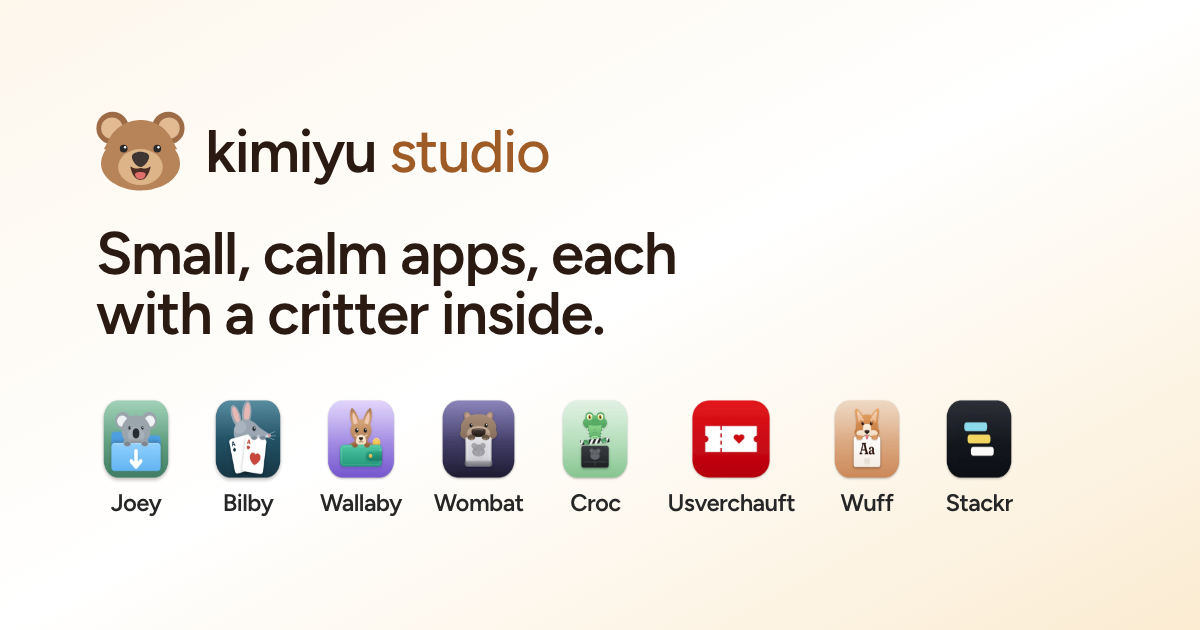
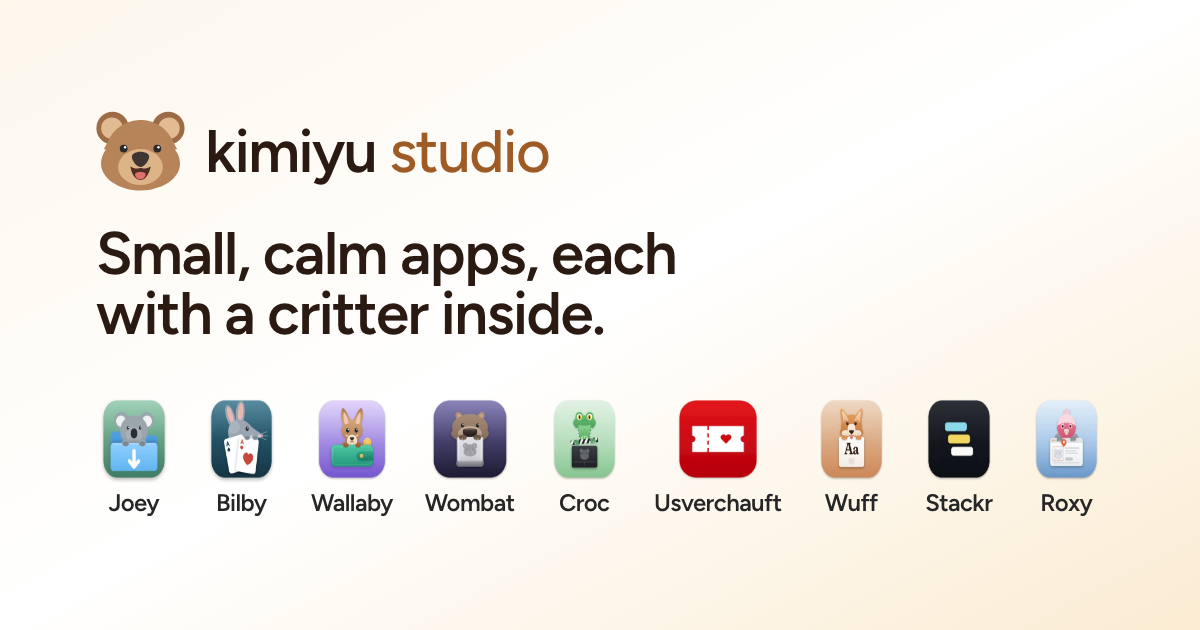
Add Roxy, the client feedback widget, to the apps
Card with the sky blue from roxy.web (named roost here, where the galah
perches), legal, contact and meta mentions, and 'Nine apps, nine small
jobs' in the heading. Share image re-rendered with the ninth icon.

diff --git a/public/build/assets/app-CX20v9g3.css b/public/build/assets/app-CX20v9g3.css
@@ -1,0 +1,2 @@
+/*! tailwindcss v4.3.3 | MIT License | https://tailwindcss.com */
+@layer properties{@supports (((-webkit-hyphens:none)) and (not (margin-trim:inline))) or ((-moz-orient:inline) and (not (color:rgb(from red r g b)))){*,:before,:after,::backdrop{--tw-space-y-reverse:0;--tw-divide-y-reverse:0;--tw-border-style:solid;--tw-gradient-position:initial;--tw-gradient-from:#0000;--tw-gradient-via:#0000;--tw-gradient-to:#0000;--tw-gradient-stops:initial;--tw-gradient-via-stops:initial;--tw-gradient-from-position:0%;--tw-gradient-via-position:50%;--tw-gradient-to-position:100%;--tw-font-weight:initial;--tw-tracking:initial;--tw-shadow:0 0 #0000;--tw-shadow-color:initial;--tw-shadow-alpha:100%;--tw-inset-shadow:0 0 #0000;--tw-inset-shadow-color:initial;--tw-inset-shadow-alpha:100%;--tw-ring-color:initial;--tw-ring-shadow:0 0 #0000;--tw-inset-ring-color:initial;--tw-inset-ring-shadow:0 0 #0000;--tw-ring-inset:initial;--tw-ring-offset-width:0px;--tw-ring-offset-color:#fff;--tw-ring-offset-shadow:0 0 #0000;--tw-translate-x:0;--tw-translate-y:0;--tw-translate-z:0;--tw-outline-style:solid}}}@layer theme{:root,:host{--font-sans:var(--font-inter), ui-sans-serif, system-ui, sans-serif;--font-mono:ui-monospace, SFMono-Regular, Menlo, Monaco, Consolas, "Liberation Mono", "Courier New", monospace;--color-neutral-500:oklch(55.6% 0 none);--color-neutral-600:oklch(43.9% 0 none);--color-neutral-700:oklch(37.1% 0 none);--color-neutral-800:oklch(26.9% 0 none);--color-neutral-950:oklch(14.5% 0 none);--color-white:#fff;--spacing:.25rem;--container-6xl:72rem;--text-sm:.875rem;--text-base:1rem;--text-lg:1.125rem;--text-xl:1.25rem;--text-xl--line-height:calc(1.75 / 1.25);--text-2xl:1.5rem;--text-2xl--line-height:calc(2 / 1.5);--text-4xl:2.25rem;--text-4xl--line-height:calc(2.5 / 2.25);--text-5xl:3rem;--text-5xl--line-height:1;--text-6xl:3.75rem;--text-6xl--line-height:1;--text-7xl:4.5rem;--text-7xl--line-height:1;--font-weight-normal:400;--font-weight-medium:500;--font-weight-semibold:600;--tracking-tight:-.025em;--radius-3xl:1.5rem;--default-transition-duration:.15s;--default-transition-timing-function:cubic-bezier(.4, 0, .2, 1);--default-font-family:var(--font-sans);--default-font-feature-settings:var(--font-sans--font-feature-settings);--default-mono-font-family:var(--font-mono);--font-sans--font-feature-settings:"cv02", "cv03", "cv04", "cv11";--font-display:var(--font-figtree), ui-sans-serif, system-ui, sans-serif;--color-honey-50:#fdf7ec;--color-honey-100:#fbecd2;--color-honey-600:#9f5b26;--color-honey-700:#824a22;--color-honey-800:#6b3d20;--color-honey-950:#2b1a12;--color-gum-50:#f1f8f4;--color-gum-700:#2f6450;--color-gum-950:#10261e;--color-chip-50:#eef7f9;--color-chip-700:#24576a;--color-chip-950:#112832;--color-lilac-50:#f6f3fe;--color-lilac-700:#6243b3;--color-lilac-950:#2a1d4d;--color-burrow-50:#f4f4fa;--color-burrow-700:#484276;--color-burrow-950:#1d1b31;--color-billabong-50:#eff8f0;--color-billabong-700:#255c31;--color-billabong-950:#0c2113;--color-terrace-50:#fdf1f1;--color-terrace-700:#b5000d;--color-terrace-950:#3a0a0b;--color-ochre-50:#fbf6f1;--color-ochre-700:#864428;--color-ochre-950:#311710;--color-cobalt-50:#f2f7ff;--color-cobalt-700:#194cb1;--color-cobalt-950:#09152c;--color-roost-50:#f2f7fc;--color-roost-700:#40618c;--color-roost-950:#1e2a3b}}@layer base{*,:after,:before,::backdrop{box-sizing:border-box;border:0 solid;margin:0;padding:0}::file-selector-button{box-sizing:border-box;border:0 solid;margin:0;padding:0}html,:host{-webkit-text-size-adjust:100%;tab-size:4;line-height:1.5;font-family:var(--default-font-family,-apple-system, BlinkMacSystemFont, "Segoe UI", Roboto, "Helvetica Neue", "Noto Sans", Arial, sans-serif, "Apple Color Emoji", "Segoe UI Emoji", "Segoe UI Symbol", "Noto Color Emoji");font-feature-settings:var(--default-font-feature-settings,normal);font-variation-settings:var(--default-font-variation-settings,normal);-webkit-tap-highlight-color:transparent}hr{height:0;color:inherit;border-top-width:1px}abbr:where([title]){-webkit-text-decoration:underline dotted;text-decoration:underline dotted}h1,h2,h3,h4,h5,h6{font-size:inherit;font-weight:inherit}a{color:inherit;-webkit-text-decoration:inherit;-webkit-text-decoration:inherit;-webkit-text-decoration:inherit;-webkit-text-decoration:inherit;text-decoration:inherit}b,strong{font-weight:bolder}code,kbd,samp,pre{font-family:var(--default-mono-font-family,ui-monospace, SFMono-Regular, Menlo, Monaco, Consolas, "Liberation Mono", "Courier New", monospace);font-feature-settings:var(--default-mono-font-feature-settings,normal);font-variation-settings:var(--default-mono-font-variation-settings,normal);font-size:1em}small{font-size:80%}sub,sup{vertical-align:baseline;font-size:75%;line-height:0;position:relative}sub{bottom:-.25em}sup{top:-.5em}table{text-indent:0;border-color:inherit;border-collapse:collapse}:-moz-focusring:where(:not(iframe)){outline:auto}progress{vertical-align:baseline}summary{display:list-item}ol,ul,menu{list-style:none}img,svg,video,canvas,audio,iframe,embed,object{vertical-align:middle;display:block}img,video{max-width:100%;height:auto}button,input,select,optgroup,textarea{font:inherit;font-feature-settings:inherit;font-variation-settings:inherit;letter-spacing:inherit;color:inherit;opacity:1;background-color:#0000;border-radius:0}::file-selector-button{font:inherit;font-feature-settings:inherit;font-variation-settings:inherit;letter-spacing:inherit;color:inherit;opacity:1;background-color:#0000;border-radius:0}:where(select:is([multiple],[size])) optgroup{font-weight:bolder}:where(select:is([multiple],[size])) optgroup option{padding-inline-start:20px}::file-selector-button{margin-inline-end:4px}::placeholder{opacity:1}@supports (not ((-webkit-appearance:-apple-pay-button))) or (contain-intrinsic-size:1px){::placeholder{color:currentColor}@supports (color:color-mix(in lab, red, red)){::placeholder{color:color-mix(in oklab, currentcolor 50%, transparent)}}}textarea{resize:vertical}::-webkit-search-decoration{-webkit-appearance:none}::-webkit-date-and-time-value{min-height:1lh;text-align:inherit}::-webkit-datetime-edit{display:inline-flex}::-webkit-datetime-edit-fields-wrapper{padding:0}::-webkit-datetime-edit{padding-block:0}::-webkit-datetime-edit-year-field{padding-block:0}::-webkit-datetime-edit-month-field{padding-block:0}::-webkit-datetime-edit-day-field{padding-block:0}::-webkit-datetime-edit-hour-field{padding-block:0}::-webkit-datetime-edit-minute-field{padding-block:0}::-webkit-datetime-edit-second-field{padding-block:0}::-webkit-datetime-edit-millisecond-field{padding-block:0}::-webkit-datetime-edit-meridiem-field{padding-block:0}::-webkit-calendar-picker-indicator{line-height:1}:-moz-ui-invalid{box-shadow:none}button,input:where([type=button],[type=reset],[type=submit]){appearance:button}::file-selector-button{appearance:button}::-webkit-inner-spin-button{height:auto}::-webkit-outer-spin-button{height:auto}[hidden]:where(:not([hidden=until-found])){display:none!important}}@layer components;@layer utilities{.absolute{position:absolute}.relative{position:relative}.inset-x-0{inset-inline:0}.top-0{top:0}.isolate{isolation:isolate}.-z-10{z-index:calc(10 * -1)}.-m-2{margin:calc(var(--spacing) * -2)}.m-0{margin:0}.mx-auto{margin-inline:auto}.mt-1{margin-top:var(--spacing)}.mt-2{margin-top:calc(var(--spacing) * 2)}.mt-4{margin-top:calc(var(--spacing) * 4)}.mt-6{margin-top:calc(var(--spacing) * 6)}.mt-8{margin-top:calc(var(--spacing) * 8)}.mt-10{margin-top:calc(var(--spacing) * 10)}.mt-14{margin-top:calc(var(--spacing) * 14)}.mt-16{margin-top:calc(var(--spacing) * 16)}.mt-auto{margin-top:auto}.flex{display:flex}.grid{display:grid}.inline-flex{display:inline-flex}.size-5{width:calc(var(--spacing) * 5);height:calc(var(--spacing) * 5)}.size-6{width:calc(var(--spacing) * 6);height:calc(var(--spacing) * 6)}.size-24{width:calc(var(--spacing) * 24);height:calc(var(--spacing) * 24)}.h-6{height:calc(var(--spacing) * 6)}.h-7{height:calc(var(--spacing) * 7)}.h-20{height:calc(var(--spacing) * 20)}.h-\[44rem\]{height:44rem}.h-\[630px\]{height:630px}.w-\[1200px\]{width:1200px}.w-auto{width:auto}.w-full{width:100%}.max-w-6xl{max-width:var(--container-6xl)}.max-w-\[20ch\]{max-width:20ch}.max-w-\[22ch\]{max-width:22ch}.max-w-\[30ch\]{max-width:30ch}.max-w-\[48ch\]{max-width:48ch}.max-w-\[56ch\]{max-width:56ch}.max-w-\[65ch\]{max-width:65ch}.shrink-0{flex-shrink:0}.scroll-mt-8{scroll-margin-top:calc(var(--spacing) * 8)}.grid-cols-1{grid-template-columns:repeat(1,minmax(0,1fr))}.flex-col{flex-direction:column}.flex-wrap{flex-wrap:wrap}.items-center{align-items:center}.justify-between{justify-content:space-between}.justify-center{justify-content:center}.justify-end{justify-content:flex-end}.gap-4{gap:calc(var(--spacing) * 4)}.gap-6{gap:calc(var(--spacing) * 6)}.gap-8{gap:calc(var(--spacing) * 8)}:where(.space-y-4>:not(:last-child)){--tw-space-y-reverse:0;margin-block-start:calc(calc(var(--spacing) * 4) * var(--tw-space-y-reverse));margin-block-end:calc(calc(var(--spacing) * 4) * calc(1 - var(--tw-space-y-reverse)))}.gap-x-1\.5{column-gap:calc(var(--spacing) * 1.5)}.gap-x-2{column-gap:calc(var(--spacing) * 2)}.gap-x-2\.5{column-gap:calc(var(--spacing) * 2.5)}.gap-x-3{column-gap:calc(var(--spacing) * 3)}.gap-x-5{column-gap:calc(var(--spacing) * 5)}.gap-x-6{column-gap:calc(var(--spacing) * 6)}.gap-x-8{column-gap:calc(var(--spacing) * 8)}.gap-x-12{column-gap:calc(var(--spacing) * 12)}.gap-y-2{row-gap:calc(var(--spacing) * 2)}.gap-y-4{row-gap:calc(var(--spacing) * 4)}:where(.divide-y>:not(:last-child)){--tw-divide-y-reverse:0;border-bottom-style:var(--tw-border-style);border-top-style:var(--tw-border-style);border-top-width:calc(1px * var(--tw-divide-y-reverse));border-bottom-width:calc(1px * calc(1 - var(--tw-divide-y-reverse)))}:where(.divide-neutral-950\/5>:not(:last-child)){border-color:#0a0a0a0d}@supports (color:color-mix(in lab, red, red)){:where(.divide-neutral-950\/5>:not(:last-child)){border-color:color-mix(in oklab, var(--color-neutral-950) 5%, transparent)}}.self-start{align-self:flex-start}.overflow-hidden{overflow:hidden}.rounded-3xl{border-radius:var(--radius-3xl)}.rounded-full{border-radius:2147483647px}.border-t{border-top-style:var(--tw-border-style);border-top-width:1px}.border-neutral-950\/5{border-color:#0a0a0a0d}@supports (color:color-mix(in lab, red, red)){.border-neutral-950\/5{border-color:color-mix(in oklab, var(--color-neutral-950) 5%, transparent)}}.bg-honey-600{background-color:var(--color-honey-600)}.bg-white{background-color:var(--color-white)}.bg-linear-to-b{--tw-gradient-position:to bottom}@supports (background-image:linear-gradient(in lab, red, red)){.bg-linear-to-b{--tw-gradient-position:to bottom in oklab}}.bg-linear-to-b{background-image:linear-gradient(var(--tw-gradient-stops))}.bg-linear-to-br{--tw-gradient-position:to bottom right}@supports (background-image:linear-gradient(in lab, red, red)){.bg-linear-to-br{--tw-gradient-position:to bottom right in oklab}}.bg-linear-to-br{background-image:linear-gradient(var(--tw-gradient-stops))}.from-billabong-50{--tw-gradient-from:var(--color-billabong-50);--tw-gradient-stops:var(--tw-gradient-via-stops,var(--tw-gradient-position), var(--tw-gradient-from) var(--tw-gradient-from-position), var(--tw-gradient-to) var(--tw-gradient-to-position))}.from-burrow-50{--tw-gradient-from:var(--color-burrow-50);--tw-gradient-stops:var(--tw-gradient-via-stops,var(--tw-gradient-position), var(--tw-gradient-from) var(--tw-gradient-from-position), var(--tw-gradient-to) var(--tw-gradient-to-position))}.from-chip-50{--tw-gradient-from:var(--color-chip-50);--tw-gradient-stops:var(--tw-gradient-via-stops,var(--tw-gradient-position), var(--tw-gradient-from) var(--tw-gradient-from-position), var(--tw-gradient-to) var(--tw-gradient-to-position))}.from-cobalt-50{--tw-gradient-from:var(--color-cobalt-50);--tw-gradient-stops:var(--tw-gradient-via-stops,var(--tw-gradient-position), var(--tw-gradient-from) var(--tw-gradient-from-position), var(--tw-gradient-to) var(--tw-gradient-to-position))}.from-gum-50{--tw-gradient-from:var(--color-gum-50);--tw-gradient-stops:var(--tw-gradient-via-stops,var(--tw-gradient-position), var(--tw-gradient-from) var(--tw-gradient-from-position), var(--tw-gradient-to) var(--tw-gradient-to-position))}.from-honey-50{--tw-gradient-from:var(--color-honey-50);--tw-gradient-stops:var(--tw-gradient-via-stops,var(--tw-gradient-position), var(--tw-gradient-from) var(--tw-gradient-from-position), var(--tw-gradient-to) var(--tw-gradient-to-position))}.from-lilac-50{--tw-gradient-from:var(--color-lilac-50);--tw-gradient-stops:var(--tw-gradient-via-stops,var(--tw-gradient-position), var(--tw-gradient-from) var(--tw-gradient-from-position), var(--tw-gradient-to) var(--tw-gradient-to-position))}.from-ochre-50{--tw-gradient-from:var(--color-ochre-50);--tw-gradient-stops:var(--tw-gradient-via-stops,var(--tw-gradient-position), var(--tw-gradient-from) var(--tw-gradient-from-position), var(--tw-gradient-to) var(--tw-gradient-to-position))}.from-roost-50{--tw-gradient-from:var(--color-roost-50);--tw-gradient-stops:var(--tw-gradient-via-stops,var(--tw-gradient-position), var(--tw-gradient-from) var(--tw-gradient-from-position), var(--tw-gradient-to) var(--tw-gradient-to-position))}.from-terrace-50{--tw-gradient-from:var(--color-terrace-50);--tw-gradient-stops:var(--tw-gradient-via-stops,var(--tw-gradient-position), var(--tw-gradient-from) var(--tw-gradient-from-position), var(--tw-gradient-to) var(--tw-gradient-to-position))}.via-white{--tw-gradient-via:var(--color-white);--tw-gradient-via-stops:var(--tw-gradient-position), var(--tw-gradient-from) var(--tw-gradient-from-position), var(--tw-gradient-via) var(--tw-gradient-via-position), var(--tw-gradient-to) var(--tw-gradient-to-position);--tw-gradient-stops:var(--tw-gradient-via-stops)}.to-honey-100{--tw-gradient-to:var(--color-honey-100);--tw-gradient-stops:var(--tw-gradient-via-stops,var(--tw-gradient-position), var(--tw-gradient-from) var(--tw-gradient-from-position), var(--tw-gradient-to) var(--tw-gradient-to-position))}.to-white{--tw-gradient-to:var(--color-white);--tw-gradient-stops:var(--tw-gradient-via-stops,var(--tw-gradient-position), var(--tw-gradient-from) var(--tw-gradient-from-position), var(--tw-gradient-to) var(--tw-gradient-to-position))}.to-60\%{--tw-gradient-to-position:60%}.fill-current{fill:currentColor}.fill-white{fill:var(--color-white)}.stroke-honey-600{stroke:var(--color-honey-600)}.p-8{padding:calc(var(--spacing) * 8)}.px-3{padding-inline:calc(var(--spacing) * 3)}.px-6{padding-inline:calc(var(--spacing) * 6)}.px-24{padding-inline:calc(var(--spacing) * 24)}.py-1\.5{padding-block:calc(var(--spacing) * 1.5)}.py-3{padding-block:calc(var(--spacing) * 3)}.py-5{padding-block:calc(var(--spacing) * 5)}.py-8{padding-block:calc(var(--spacing) * 8)}.py-10{padding-block:calc(var(--spacing) * 10)}.py-12{padding-block:calc(var(--spacing) * 12)}.py-24{padding-block:calc(var(--spacing) * 24)}.pt-8{padding-top:calc(var(--spacing) * 8)}.pt-10{padding-top:calc(var(--spacing) * 10)}.pt-16{padding-top:calc(var(--spacing) * 16)}.pr-4{padding-right:calc(var(--spacing) * 4)}.pr-5{padding-right:calc(var(--spacing) * 5)}.pb-24{padding-bottom:calc(var(--spacing) * 24)}.pl-4{padding-left:calc(var(--spacing) * 4)}.pl-5{padding-left:calc(var(--spacing) * 5)}.text-center{text-align:center}.font-sans{font-family:var(--font-sans);font-feature-settings:var(--font-sans--font-feature-settings)}.font-display{font-family:var(--font-display)}.text-2xl{font-size:var(--text-2xl);line-height:var(--tw-leading,var(--text-2xl--line-height))}.text-4xl{font-size:var(--text-4xl);line-height:var(--tw-leading,var(--text-4xl--line-height))}.text-5xl{font-size:var(--text-5xl);line-height:var(--tw-leading,var(--text-5xl--line-height))}.text-6xl{font-size:var(--text-6xl);line-height:var(--tw-leading,var(--text-6xl--line-height))}.text-base\/6{font-size:var(--text-base);line-height:calc(var(--spacing) * 6)}.text-base\/7{font-size:var(--text-base);line-height:calc(var(--spacing) * 7)}.text-lg\/7{font-size:var(--text-lg);line-height:calc(var(--spacing) * 7)}.text-lg\/8{font-size:var(--text-lg);line-height:calc(var(--spacing) * 8)}.text-sm\/6{font-size:var(--text-sm);line-height:calc(var(--spacing) * 6)}.text-xl{font-size:var(--text-xl);line-height:var(--tw-leading,var(--text-xl--line-height))}.font-medium{--tw-font-weight:var(--font-weight-medium);font-weight:var(--font-weight-medium)}.font-normal{--tw-font-weight:var(--font-weight-normal);font-weight:var(--font-weight-normal)}.font-semibold{--tw-font-weight:var(--font-weight-semibold);font-weight:var(--font-weight-semibold)}.tracking-tight{--tw-tracking:var(--tracking-tight);letter-spacing:var(--tracking-tight)}.text-balance{text-wrap:balance}.text-pretty{text-wrap:pretty}.whitespace-nowrap{white-space:nowrap}.text-billabong-700{color:var(--color-billabong-700)}.text-billabong-950{color:var(--color-billabong-950)}.text-burrow-700{color:var(--color-burrow-700)}.text-burrow-950{color:var(--color-burrow-950)}.text-chip-700{color:var(--color-chip-700)}.text-chip-950{color:var(--color-chip-950)}.text-cobalt-700{color:var(--color-cobalt-700)}.text-cobalt-950{color:var(--color-cobalt-950)}.text-gum-700{color:var(--color-gum-700)}.text-gum-950{color:var(--color-gum-950)}.text-honey-600{color:var(--color-honey-600)}.text-honey-800{color:var(--color-honey-800)}.text-honey-950{color:var(--color-honey-950)}.text-lilac-700{color:var(--color-lilac-700)}.text-lilac-950{color:var(--color-lilac-950)}.text-neutral-500{color:var(--color-neutral-500)}.text-neutral-600{color:var(--color-neutral-600)}.text-neutral-700{color:var(--color-neutral-700)}.text-neutral-800{color:var(--color-neutral-800)}.text-neutral-950{color:var(--color-neutral-950)}.text-ochre-700{color:var(--color-ochre-700)}.text-ochre-950{color:var(--color-ochre-950)}.text-roost-700{color:var(--color-roost-700)}.text-roost-950{color:var(--color-roost-950)}.text-terrace-700{color:var(--color-terrace-700)}.text-terrace-950{color:var(--color-terrace-950)}.text-white{color:var(--color-white)}.antialiased{-webkit-font-smoothing:antialiased;-moz-osx-font-smoothing:grayscale}.shadow-sm{--tw-shadow:0 1px 3px 0 var(--tw-shadow-color,#0000001a), 0 1px 2px -1px var(--tw-shadow-color,#0000001a);box-shadow:var(--tw-inset-shadow), var(--tw-inset-ring-shadow), var(--tw-ring-offset-shadow), var(--tw-ring-shadow), var(--tw-shadow)}.ring-1{--tw-ring-shadow:var(--tw-ring-inset,) 0 0 0 calc(1px + var(--tw-ring-offset-width)) var(--tw-ring-color,currentcolor);box-shadow:var(--tw-inset-shadow), var(--tw-inset-ring-shadow), var(--tw-ring-offset-shadow), var(--tw-ring-shadow), var(--tw-shadow)}.ring-billabong-950\/10{--tw-ring-color:#0c21131a}@supports (color:color-mix(in lab, red, red)){.ring-billabong-950\/10{--tw-ring-color:color-mix(in oklab, var(--color-billabong-950) 10%, transparent)}}.ring-burrow-950\/10{--tw-ring-color:#1d1b311a}@supports (color:color-mix(in lab, red, red)){.ring-burrow-950\/10{--tw-ring-color:color-mix(in oklab, var(--color-burrow-950) 10%, transparent)}}.ring-chip-950\/10{--tw-ring-color:#1128321a}@supports (color:color-mix(in lab, red, red)){.ring-chip-950\/10{--tw-ring-color:color-mix(in oklab, var(--color-chip-950) 10%, transparent)}}.ring-cobalt-950\/10{--tw-ring-color:#09152c1a}@supports (color:color-mix(in lab, red, red)){.ring-cobalt-950\/10{--tw-ring-color:color-mix(in oklab, var(--color-cobalt-950) 10%, transparent)}}.ring-gum-950\/10{--tw-ring-color:#10261e1a}@supports (color:color-mix(in lab, red, red)){.ring-gum-950\/10{--tw-ring-color:color-mix(in oklab, var(--color-gum-950) 10%, transparent)}}.ring-honey-950\/10{--tw-ring-color:#2b1a121a}@supports (color:color-mix(in lab, red, red)){.ring-honey-950\/10{--tw-ring-color:color-mix(in oklab, var(--color-honey-950) 10%, transparent)}}.ring-lilac-950\/10{--tw-ring-color:#2a1d4d1a}@supports (color:color-mix(in lab, red, red)){.ring-lilac-950\/10{--tw-ring-color:color-mix(in oklab, var(--color-lilac-950) 10%, transparent)}}.ring-ochre-950\/10{--tw-ring-color:#3117101a}@supports (color:color-mix(in lab, red, red)){.ring-ochre-950\/10{--tw-ring-color:color-mix(in oklab, var(--color-ochre-950) 10%, transparent)}}.ring-roost-950\/10{--tw-ring-color:#1e2a3b1a}@supports (color:color-mix(in lab, red, red)){.ring-roost-950\/10{--tw-ring-color:color-mix(in oklab, var(--color-roost-950) 10%, transparent)}}.ring-terrace-950\/10{--tw-ring-color:#3a0a0b1a}@supports (color:color-mix(in lab, red, red)){.ring-terrace-950\/10{--tw-ring-color:color-mix(in oklab, var(--color-terrace-950) 10%, transparent)}}@media (hover:hover){.group-hover\:translate-x-0\.5:is(:where(.group):hover *){--tw-translate-x:calc(var(--spacing) * .5);translate:var(--tw-translate-x) var(--tw-translate-y)}.hover\:bg-honey-50:hover{background-color:var(--color-honey-50)}.hover\:bg-honey-700:hover{background-color:var(--color-honey-700)}.hover\:text-honey-600:hover{color:var(--color-honey-600)}.hover\:text-honey-700:hover{color:var(--color-honey-700)}.hover\:ring-billabong-950\/20:hover{--tw-ring-color:#0c211333}@supports (color:color-mix(in lab, red, red)){.hover\:ring-billabong-950\/20:hover{--tw-ring-color:color-mix(in oklab, var(--color-billabong-950) 20%, transparent)}}.hover\:ring-burrow-950\/20:hover{--tw-ring-color:#1d1b3133}@supports (color:color-mix(in lab, red, red)){.hover\:ring-burrow-950\/20:hover{--tw-ring-color:color-mix(in oklab, var(--color-burrow-950) 20%, transparent)}}.hover\:ring-chip-950\/20:hover{--tw-ring-color:#11283233}@supports (color:color-mix(in lab, red, red)){.hover\:ring-chip-950\/20:hover{--tw-ring-color:color-mix(in oklab, var(--color-chip-950) 20%, transparent)}}.hover\:ring-cobalt-950\/20:hover{--tw-ring-color:#09152c33}@supports (color:color-mix(in lab, red, red)){.hover\:ring-cobalt-950\/20:hover{--tw-ring-color:color-mix(in oklab, var(--color-cobalt-950) 20%, transparent)}}.hover\:ring-gum-950\/20:hover{--tw-ring-color:#10261e33}@supports (color:color-mix(in lab, red, red)){.hover\:ring-gum-950\/20:hover{--tw-ring-color:color-mix(in oklab, var(--color-gum-950) 20%, transparent)}}.hover\:ring-lilac-950\/20:hover{--tw-ring-color:#2a1d4d33}@supports (color:color-mix(in lab, red, red)){.hover\:ring-lilac-950\/20:hover{--tw-ring-color:color-mix(in oklab, var(--color-lilac-950) 20%, transparent)}}.hover\:ring-ochre-950\/20:hover{--tw-ring-color:#31171033}@supports (color:color-mix(in lab, red, red)){.hover\:ring-ochre-950\/20:hover{--tw-ring-color:color-mix(in oklab, var(--color-ochre-950) 20%, transparent)}}.hover\:ring-roost-950\/20:hover{--tw-ring-color:#1e2a3b33}@supports (color:color-mix(in lab, red, red)){.hover\:ring-roost-950\/20:hover{--tw-ring-color:color-mix(in oklab, var(--color-roost-950) 20%, transparent)}}.hover\:ring-terrace-950\/20:hover{--tw-ring-color:#3a0a0b33}@supports (color:color-mix(in lab, red, red)){.hover\:ring-terrace-950\/20:hover{--tw-ring-color:color-mix(in oklab, var(--color-terrace-950) 20%, transparent)}}}.focus-visible\:outline-2:focus-visible{outline-style:var(--tw-outline-style);outline-width:2px}.focus-visible\:outline-offset-2:focus-visible{outline-offset:2px}.focus-visible\:outline-honey-600:focus-visible{outline-color:var(--color-honey-600)}@media (prefers-reduced-motion:no-preference){.motion-safe\:scroll-smooth{scroll-behavior:smooth}.motion-safe\:transition-transform{transition-property:transform,translate,scale,rotate;transition-timing-function:var(--tw-ease,var(--default-transition-timing-function));transition-duration:var(--tw-duration,var(--default-transition-duration))}}@media not all and (width>=40rem){.max-sm\:hidden{display:none}}@media (width>=40rem){.sm\:size-4{width:calc(var(--spacing) * 4);height:calc(var(--spacing) * 4)}.sm\:grid-cols-\[12rem_1fr\]{grid-template-columns:12rem 1fr}.sm\:flex-row{flex-direction:row}.sm\:items-center{align-items:center}.sm\:justify-between{justify-content:space-between}.sm\:py-32{padding-block:calc(var(--spacing) * 32)}.sm\:pt-16{padding-top:calc(var(--spacing) * 16)}.sm\:pt-24{padding-top:calc(var(--spacing) * 24)}.sm\:pb-32{padding-bottom:calc(var(--spacing) * 32)}.sm\:text-5xl{font-size:var(--text-5xl);line-height:var(--tw-leading,var(--text-5xl--line-height))}.sm\:text-7xl{font-size:var(--text-7xl);line-height:var(--tw-leading,var(--text-7xl--line-height))}.sm\:text-base\/7{font-size:var(--text-base);line-height:calc(var(--spacing) * 7)}.sm\:text-sm\/6{font-size:var(--text-sm);line-height:calc(var(--spacing) * 6)}.sm\:text-xl\/8{font-size:var(--text-xl);line-height:calc(var(--spacing) * 8)}}@media (width>=48rem){.md\:grid-cols-2{grid-template-columns:repeat(2,minmax(0,1fr))}.md\:p-8{padding:calc(var(--spacing) * 8)}}@media (width>=64rem){.lg\:col-span-2{grid-column:span 2/span 2}.lg\:grid-cols-3{grid-template-columns:repeat(3,minmax(0,1fr))}.lg\:items-end{align-items:flex-end}.lg\:self-end{align-self:flex-end}.lg\:px-8{padding-inline:calc(var(--spacing) * 8)}}}@property --tw-space-y-reverse{syntax:"*";inherits:false;initial-value:0}@property --tw-divide-y-reverse{syntax:"*";inherits:false;initial-value:0}@property --tw-border-style{syntax:"*";inherits:false;initial-value:solid}@property --tw-gradient-position{syntax:"*";inherits:false}@property --tw-gradient-from{syntax:"<color>";inherits:false;initial-value:#0000}@property --tw-gradient-via{syntax:"<color>";inherits:false;initial-value:#0000}@property --tw-gradient-to{syntax:"<color>";inherits:false;initial-value:#0000}@property --tw-gradient-stops{syntax:"*";inherits:false}@property --tw-gradient-via-stops{syntax:"*";inherits:false}@property --tw-gradient-from-position{syntax:"<length-percentage>";inherits:false;initial-value:0%}@property --tw-gradient-via-position{syntax:"<length-percentage>";inherits:false;initial-value:50%}@property --tw-gradient-to-position{syntax:"<length-percentage>";inherits:false;initial-value:100%}@property --tw-font-weight{syntax:"*";inherits:false}@property --tw-tracking{syntax:"*";inherits:false}@property --tw-shadow{syntax:"*";inherits:false;initial-value:0 0 #0000}@property --tw-shadow-color{syntax:"*";inherits:false}@property --tw-shadow-alpha{syntax:"<percentage>";inherits:false;initial-value:100%}@property --tw-inset-shadow{syntax:"*";inherits:false;initial-value:0 0 #0000}@property --tw-inset-shadow-color{syntax:"*";inherits:false}@property --tw-inset-shadow-alpha{syntax:"<percentage>";inherits:false;initial-value:100%}@property --tw-ring-color{syntax:"*";inherits:false}@property --tw-ring-shadow{syntax:"*";inherits:false;initial-value:0 0 #0000}@property --tw-inset-ring-color{syntax:"*";inherits:false}@property --tw-inset-ring-shadow{syntax:"*";inherits:false;initial-value:0 0 #0000}@property --tw-ring-inset{syntax:"*";inherits:false}@property --tw-ring-offset-width{syntax:"<length>";inherits:false;initial-value:0}@property --tw-ring-offset-color{syntax:"*";inherits:false;initial-value:#fff}@property --tw-ring-offset-shadow{syntax:"*";inherits:false;initial-value:0 0 #0000}@property --tw-translate-x{syntax:"*";inherits:false;initial-value:0}@property --tw-translate-y{syntax:"*";inherits:false;initial-value:0}@property --tw-translate-z{syntax:"*";inherits:false;initial-value:0}@property --tw-outline-style{syntax:"*";inherits:false;initial-value:solid}

diff --git a/resources/css/app.css b/resources/css/app.css
@@ -46,4 +46,7 @@
     --color-cobalt-50: #f2f7ff;
     --color-cobalt-700: #194cb1;
     --color-cobalt-950: #09152c;
+    --color-roost-50: #f2f7fc;
+    --color-roost-700: #40618c;
+    --color-roost-950: #1e2a3b;
 }

diff --git a/resources/views/components/layouts/app.blade.php b/resources/views/components/layouts/app.blade.php
@@ -1,6 +1,6 @@
 @props([
     'title' => 'kimiyu studio: small, calm apps, each with a critter inside',
-    'description' => 'kimiyu studio makes small, calm apps: Joey, a BitTorrent client for the Mac; Bilby, a poker tournament clock; Wallaby, a shared tab for couples and housemates; Wombat, a disk space app for the Mac; Croc, a video converter for the Mac; Usverchauft, ticket passing for FC Winterthur fans; Wuff, a web font converter in the browser; and Stackr, a board of lists and cards for small teams.',
+    'description' => 'kimiyu studio makes small, calm apps: Joey, a BitTorrent client for the Mac; Bilby, a poker tournament clock; Wallaby, a shared tab for couples and housemates; Wombat, a disk space app for the Mac; Croc, a video converter for the Mac; Usverchauft, ticket passing for FC Winterthur fans; Wuff, a web font converter in the browser; Stackr, a board of lists and cards for small teams; and Roxy, client feedback your coding agent can fix.',
 ])
 
 @php
@@ -25,7 +25,7 @@
     <meta property="og:image" content="{{ asset('images/og.png') }}">
     <meta property="og:image:width" content="1200">
     <meta property="og:image:height" content="630">
-    <meta property="og:image:alt" content="The kimiyu bear next to the words: Small, calm apps, each with a critter inside. Below, the icons of Joey, Bilby, Wallaby, Wombat, Croc, Usverchauft, Wuff and Stackr.">
+    <meta property="og:image:alt" content="The kimiyu bear next to the words: Small, calm apps, each with a critter inside. Below, the icons of Joey, Bilby, Wallaby, Wombat, Croc, Usverchauft, Wuff, Stackr and Roxy.">
     <meta name="twitter:card" content="summary_large_image">
 
     <link rel="icon" type="image/svg+xml" href="{{ asset('favicon.svg') }}">

diff --git a/resources/views/home.blade.php b/resources/views/home.blade.php
@@ -65,7 +65,7 @@
             <div class="mx-auto max-w-6xl px-6 lg:px-8">
                 <p class="text-base/7 font-semibold text-honey-600">The apps</p>
                 <h2 class="mt-2 max-w-[30ch] font-display text-4xl font-semibold tracking-tight text-balance text-honey-950 sm:text-5xl">
-                    Eight apps, eight small jobs
+                    Nine apps, nine small jobs
                 </h2>
                 <p class="mt-6 max-w-[48ch] text-lg/8 text-pretty text-neutral-600">
                     Each app has its own website, with everything you need to get started.
@@ -125,7 +125,7 @@
                         Questions, ideas or a bug to report?
                     </h2>
                     <p class="mt-6 max-w-[48ch] text-lg/8 text-pretty text-neutral-600">
-                        Write to us. For Joey, Wombat, Croc, Wuff and Stackr, you can also open an issue on GitHub.
+                        Write to us. For Joey, Wombat, Croc, Wuff, Stackr and Roxy, you can also open an issue on GitHub.
                     </p>
                 </div>
                 <div class="flex flex-col justify-end gap-4 lg:items-end">

diff --git a/resources/views/legal.blade.php b/resources/views/legal.blade.php
@@ -33,6 +33,7 @@
                         <a href="https://croc.kimiyu.ch/legal" class="font-medium text-honey-800 hover:text-honey-600">Croc’s legal notice</a>,
                         <a href="https://wuff.kimiyu.ch/legal" class="font-medium text-honey-800 hover:text-honey-600">Wuff’s legal notice</a>,
                         <a href="https://stackr.kimiyu.ch/legal" class="font-medium text-honey-800 hover:text-honey-600">Stackr’s legal notice</a>,
+                        <a href="https://roxy.kimiyu.ch/legal" class="font-medium text-honey-800 hover:text-honey-600">Roxy’s legal notice</a>,
                         <a href="https://usverchauft.ch/datenschutz" class="font-medium text-honey-800 hover:text-honey-600">Usverchauft’s privacy policy</a>
                         and <a href="https://wallaby.kimiyu.ch/privacy" class="font-medium text-honey-800 hover:text-honey-600">Wallaby’s privacy policy</a>
                         on their websites.

diff --git a/config/kimiyu.php b/config/kimiyu.php
@@ -88,6 +88,16 @@ return [
             'details' => 'Free, no ads · Browser',
             'color' => 'cobalt',
         ],
+        [
+            'name' => 'Roxy',
+            'url' => 'https://roxy.kimiyu.ch',
+            'icon' => 'images/roxy.webp',
+            'icon_alt' => 'The Roxy app icon: a galah peeking over a browser window with a feedback pin',
+            'tagline' => 'Tell Roxy. Claude fixes it.',
+            'description' => 'A feedback button for the websites you build. Your client points at what’s wrong, Roxy adds a screenshot and everything about the page, and your coding agent reads it over MCP, fixes it and marks it done.',
+            'details' => 'Early access · Any website',
+            'color' => 'roost',
+        ],
     ],
 
 ];

diff --git a/resources/views/components/app-card.blade.php b/resources/views/components/app-card.blade.php
@@ -11,6 +11,7 @@
         'terrace' => ['card' => 'from-terrace-50 ring-terrace-950/10 hover:ring-terrace-950/20', 'name' => 'text-terrace-950', 'accent' => 'text-terrace-700'],
         'ochre' => ['card' => 'from-ochre-50 ring-ochre-950/10 hover:ring-ochre-950/20', 'name' => 'text-ochre-950', 'accent' => 'text-ochre-700'],
         'cobalt' => ['card' => 'from-cobalt-50 ring-cobalt-950/10 hover:ring-cobalt-950/20', 'name' => 'text-cobalt-950', 'accent' => 'text-cobalt-700'],
+        'roost' => ['card' => 'from-roost-50 ring-roost-950/10 hover:ring-roost-950/20', 'name' => 'text-roost-950', 'accent' => 'text-roost-700'],
     ][$app['color']];
     $host = parse_url($app['url'], PHP_URL_HOST);
 @endphp

diff --git a/tests/Feature/SeoTest.php b/tests/Feature/SeoTest.php
@@ -31,6 +31,6 @@ class SeoTest extends TestCase
 
         $this->assertSame('https://schema.org', $data['@context']);
         $this->assertSame('kimiyu studio', $data['name']);
-        $this->assertSame(['Joey', 'Bilby', 'Wallaby', 'Wombat', 'Croc', 'Usverchauft', 'Wuff', 'Stackr'], array_column($data['owns'], 'name'));
+        $this->assertSame(['Joey', 'Bilby', 'Wallaby', 'Wombat', 'Croc', 'Usverchauft', 'Wuff', 'Stackr', 'Roxy'], array_column($data['owns'], 'name'));
     }
 }

diff --git a/tests/Feature/HomePageTest.php b/tests/Feature/HomePageTest.php
@@ -17,6 +17,7 @@ class HomePageTest extends TestCase
             ->assertSee('https://croc.kimiyu.ch')
             ->assertSee('https://wuff.kimiyu.ch')
             ->assertSee('https://stackr.kimiyu.ch')
+            ->assertSee('https://roxy.kimiyu.ch')
             ->assertSee('https://usverchauft.ch')
             ->assertDontSee('amor.kimiyu.ch');
     }

diff --git a/NEXT.md b/NEXT.md
@@ -25,6 +25,7 @@ Turn kimiyu.ch into the landing page of the kimiyu studio: a single page that sh
 | **Usverchauft** | Fan-to-fan ticket passing for FC Winterthur home games, no payments (formerly «Got a ticket?» at gotaticket.kimiyu.ch). No critter: its icon is the red ticket with a heart, so the hero now says *most* apps have an animal (added to the page 2026-10-19, colour `terrace`) | https://usverchauft.ch | `kimiyuch/gotaticket` |
 | **Wuff** | Turns TTF and OTF fonts into WOFF2 and WOFF in the browser and writes the `@font-face` CSS (added to the page 2026-10-20, colour `ochre`) | https://wuff.kimiyu.ch | `kimiyuch/wuff.web` |
 | **Stackr** | A small Trello-like board for small teams: projects, each with its own colour and board of lists and cards. No critter: its icon is the three-bar stack from its own site (added to the page 2026-10-24, colour `cobalt`) | https://stackr.kimiyu.ch | `marceli-to/stackr.web` |
+| **Roxy** | A feedback widget for websites: clients point at what needs changing, and a coding agent reads it over MCP, fixes it and resolves it. Mascot: a galah (added to the page 2026-10-28, colour `roost`) | https://roxy.kimiyu.ch | `kimiyuch/roxy.web` |
 
 Each product is an Australian animal, drawn as a cute flat animal peeking over the app's object on a rounded gradient tile.
 
